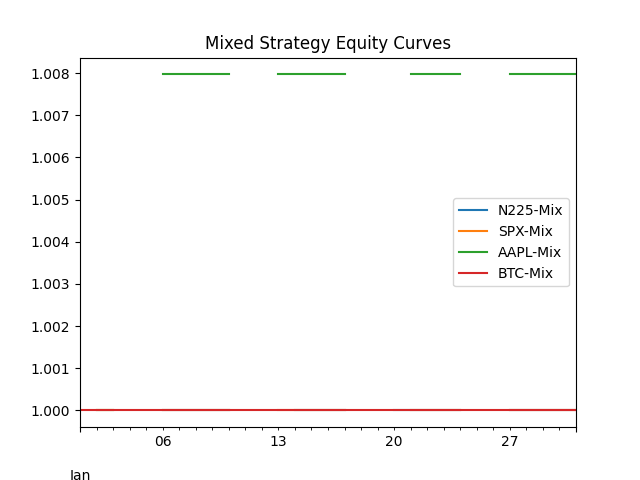
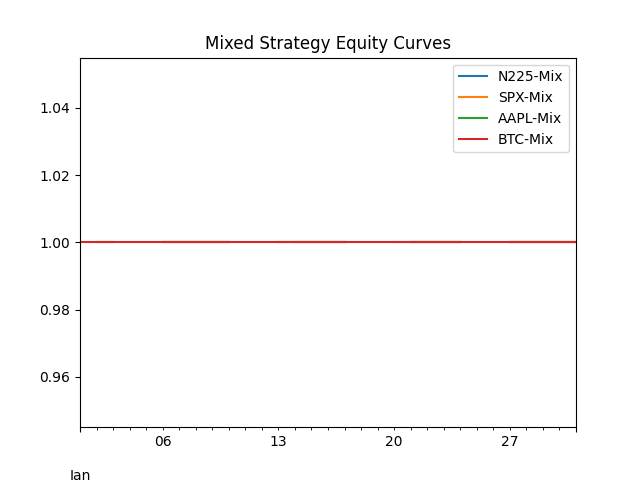
fix: dynamic window & Sharpe guard, rerun multi-asset eval

diff --git a/backtest/policy_runner.py b/backtest/policy_runner.py
@@ -2,8 +2,10 @@ import pandas as pd
 from policy.selector import select_strategy
 from backtest.runner import backtest
 
-def run_policy(price: pd.Series, window: int = 200,
+def run_policy(price: pd.Series, window=None,
                hurst_thr=0.55, vr_p_thr=0.05, mom_lb=20, mr_z=1.0):
+    if window is None:
+        window = max(50, int(len(price)*0.1))  # 価格長10%か50日の大きい方
     """Rolling regime-switch backtest."""
     equities, dates = [], []
     for i in range(window, len(price)):

diff --git a/metrics.py b/metrics.py
@@ -2,6 +2,7 @@ import numpy as np, pandas as pd
 def calc_metrics(equity: pd.Series, rf: float = 0.0) -> dict:
     ret = equity.pct_change().dropna()
     total_ret = equity.iloc[-1] / equity.iloc[0] - 1
-    sharpe = np.sqrt(252) * (ret.mean() - rf/252) / ret.std(ddof=0)
+    vol = ret.std(ddof=0)
+    sharpe = 0 if vol==0 else np.sqrt(252)*(ret.mean()-rf/252)/vol
     dd = (equity / equity.cummax() - 1).min()
     return {"total_return": total_ret, "sharpe": sharpe, "max_dd": dd} 
